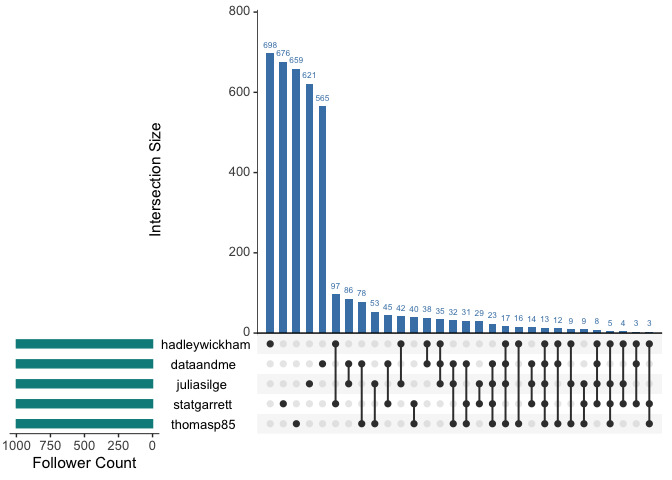
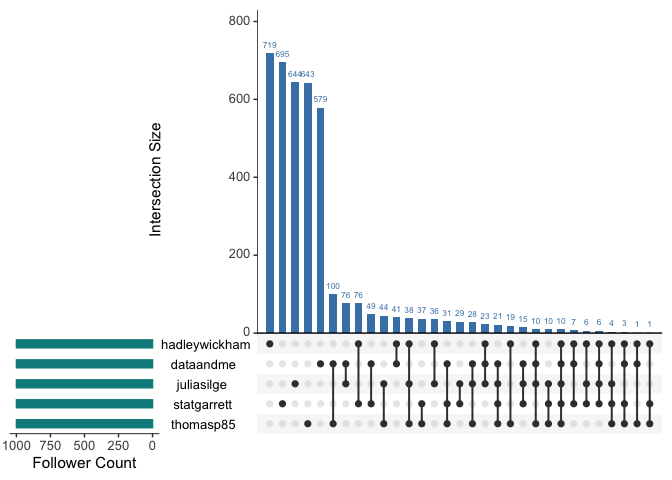
Update man, remove GOT3 search function

diff --git a/readme.md b/readme.md
@@ -68,17 +68,17 @@ order.
      fm <- rtweetXtras::common_follower_matrix(rstats_list, follower_depth = 200, token = NULL)
      dplyr::glimpse(fm)
 
-    ## Rows: 857
+    ## Rows: 833
     ## Columns: 9
-    ## $ screen_name       <chr> "noraamcintyre", "theariffrank", "KhizrahKk", "tric…
-    ## $ user_id           <chr> "474042503", "950270090590617602", "732584991192940…
-    ## $ hadleywickham     <dbl> 1, 1, 1, 1, 1, 1, 1, 1, 1, 1, 1, 1, 1, 1, 1, 0, 0, …
-    ## $ dataandme         <dbl> 1, 1, 1, 1, 1, 1, 1, 1, 1, 0, 0, 0, 1, 1, 1, 1, 1, …
-    ## $ juliasilge        <dbl> 1, 1, 1, 1, 0, 1, 1, 1, 0, 0, 1, 1, 0, 0, 1, 1, 1, …
-    ## $ statgarrett       <dbl> 1, 1, 1, 1, 1, 0, 0, 1, 0, 1, 0, 1, 1, 0, 0, 1, 0, …
-    ## $ thomasp85         <dbl> 1, 1, 1, 0, 1, 1, 1, 0, 1, 1, 1, 0, 0, 1, 0, 0, 1, …
-    ## $ sum_intersections <dbl> 5, 5, 5, 4, 4, 4, 4, 4, 3, 3, 3, 3, 3, 3, 3, 3, 3, …
-    ## $ ranking           <int> 1, 1, 1, 2, 2, 2, 2, 2, 3, 3, 3, 3, 3, 3, 3, 3, 3, …
+    ## $ screen_name       <chr> "MatthiasSiewert", "reynolds_tony1", "andres_martig…
+    ## $ user_id           <chr> "4845525262", "1313829145902710784", "8159758253130…
+    ## $ hadleywickham     <dbl> 1, 1, 1, 1, 1, 1, 1, 1, 1, 1, 1, 1, 1, 1, 1, 1, 1, …
+    ## $ dataandme         <dbl> 1, 1, 1, 1, 1, 1, 1, 0, 1, 1, 1, 0, 1, 1, 1, 0, 1, …
+    ## $ juliasilge        <dbl> 1, 1, 1, 1, 1, 1, 0, 1, 1, 1, 1, 1, 1, 1, 1, 1, 1, …
+    ## $ statgarrett       <dbl> 1, 1, 1, 1, 1, 1, 1, 1, 0, 1, 0, 1, 0, 0, 0, 1, 0, …
+    ## $ thomasp85         <dbl> 1, 1, 1, 1, 0, 0, 1, 1, 1, 0, 0, 0, 0, 0, 0, 0, 0, …
+    ## $ sum_intersections <dbl> 5, 5, 5, 5, 4, 4, 4, 4, 4, 4, 3, 3, 3, 3, 3, 3, 3, …
+    ## $ ranking           <int> 1, 1, 1, 1, 2, 2, 2, 2, 2, 2, 3, 3, 3, 3, 3, 3, 3, …
 
 ### account\_activity
 
@@ -116,3 +116,12 @@ visualisation software. This is not being maintained - replaced by
 `write_csv_compatible` saves a csv file of an rtweet tibble with a
 modified “text” column to include “RT @retweet\_screen\_name:” for all
 Retweets. Original text column is saved as additional column “text2”
+
+`snscrape_search` is a function that uses the Python snscrape library to
+search historical twitter. Python 3.8 and snscrape need to be installed.
+See
+<a href="https://github.com/JustAnotherArchivist/snscrape" class="uri">https://github.com/JustAnotherArchivist/snscrape</a>
+for more information.
+
+`check_shadowban` is a function to check whether an account has been
+temporarily suppressed from search or display results by Twitter.
